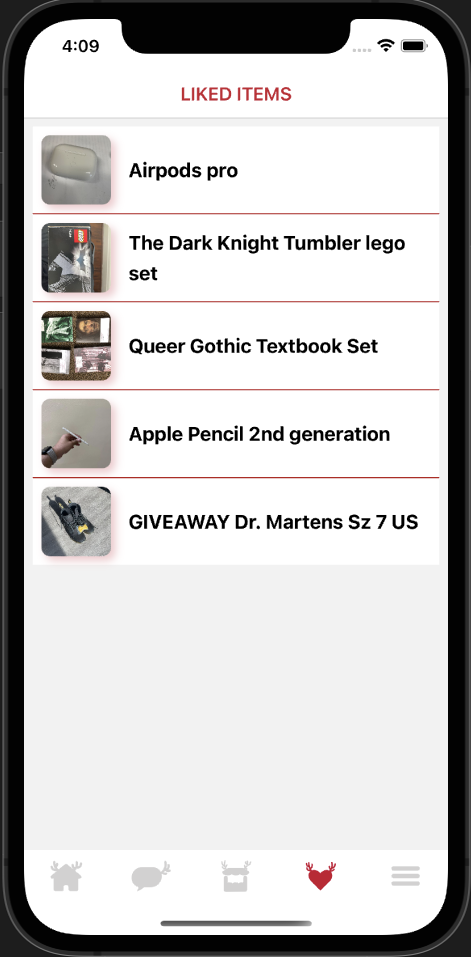
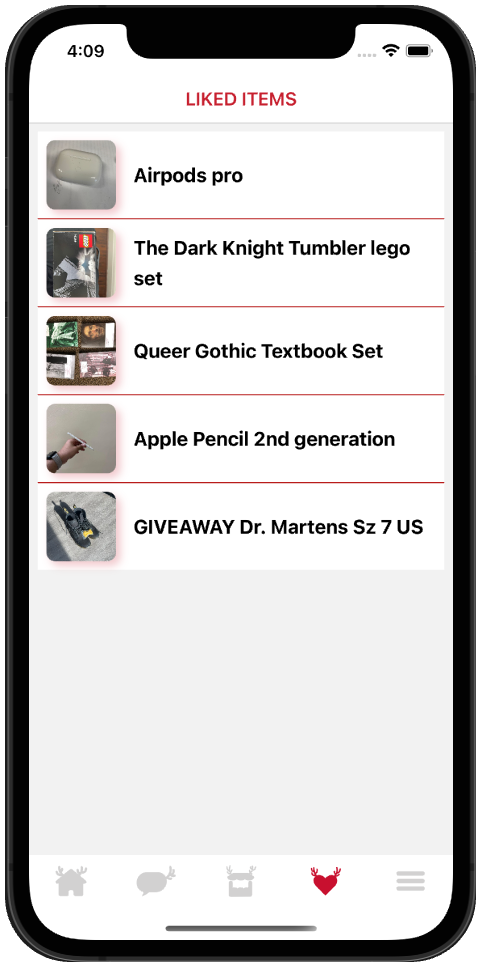
add feature app stack template

diff --git a/pages/feature.tsx b/pages/feature.tsx
@@ -9,15 +9,14 @@ import DeviceLockIcon from '../components/icon/DeviceLockIcon';
 import DeviceChartIcon from '../components/icon/DeviceChartIcon';
 import DeviceUserIcon from '../components/icon/DeviceUserIcon';
 import Header from '../components/Header';
-
+import FeatureContent from '../components/FeatureContent';
+import listing from '../public/image/listing.png';
+import chat from '../public/image/chat.png';
+import createItem from '../public/image/create-item.png';
+import likedItem from '../public/image/liked-item.png';
+import menu from '../public/image/menu.png';
 
 const features = [
-  // {
-  //   name: '',
-  //   description:
-  //     'Whether it’s $1 or $1,000,000, we can put your money to work for you.',
-  //   icon: DeviceArrowIcon,
-  // },
   {
     name: 'List of products',
     description:
@@ -42,16 +41,32 @@ const features = [
       'Cutting-edge security technology that even the NSA doesn’t know about keeps you hidden.',
     icon: DeviceUserIcon,
   },
-  // {
-  //   name: 'Portfolio tracking',
-  //   description:
-  //     'Watch your investments grow exponentially, leaving other investors in the dust.',
-  //   icon: DeviceChartIcon,
-  // },
+];
+
+const stacks = [
+  {
+    position: 1,
+    image: listing,
+  },
+  {
+    position: 2,
+    image: chat,
+  },
+  {
+    position: 3,
+    image: createItem,
+  },
+  {
+    position: 4,
+    image: likedItem,
+  },
+  {
+    position: 5,
+    image: menu,
+  },
 ]
 
 const Feature:NextPage = () => {
-
   return (
     <>
     <header><Header/></header>
@@ -87,6 +102,13 @@ const Feature:NextPage = () => {
             </li>
           ))}
         </ul>
+        <div> 
+          {stacks.map((stack)=>{
+            return (
+              <FeatureContent key={stack.position} position={stack.position} image={stack.image}/>
+            )
+          })}
+        </div>
       </div>
     </section>
     </>

diff --git a/components/FeatureContent.tsx b/components/FeatureContent.tsx
@@ -1,0 +1,36 @@
+import React from 'react';
+import { FC } from 'react';
+import Image, { StaticImageData } from 'next/image';
+import internal from 'stream';
+
+interface Props{
+  position: number,
+  image: StaticImageData,
+}
+
+const FeatureContent:FC<Props> = (props) =>{
+  return (
+    <div className='grid md:grid-cols-2'>
+        {props.position % 2 != 0 ? <div className="feature-img">
+          <Image src={props.image} alt="Listing Feature" />
+        </div>:null}
+        <div className="flex flex-col justify-center">
+          <div className="text-denison-red mb-5">Lorem ipsum dolor sit amet.</div>
+          <h2 className="text-3xl font-bold mb-5">Lorem ipsum dolor sit amet consectetur adipisicing elit.</h2>
+          <div className='mb-7'>Lorem ipsum dolor sit amet consectetur adipisicing elit. 
+          Molestiae quasi, fugit nostrum labore sequi officia ex saepe repudiandae 
+          vitae quas assumenda dignissimos reprehenderit amet eius quisquam voluptas, quod cumque eum.
+          </div>
+          <ul className='list-disc pl-4'>
+            <li>Ability 1</li>
+            <li>Ability 2</li>
+            <li>Ability 3</li>
+          </ul>
+        </div>
+        {props.position % 2 == 0 ? <div className="feature-img">
+          <Image src={props.image} alt="Listing Feature" />
+        </div>:null}
+    </div>
+  )
+}
+export default FeatureContent;

diff --git a/components/Header.tsx b/components/Header.tsx
@@ -65,7 +65,7 @@ const Header: FC = () => {
 													)}
 												>
 													{item.name}
-													<div className="bg-pink w-0 duration-150 ease-in group-hover:w-full" style={{height: "3px"}}></div>
+													<div className="bg-pink w-0 duration-150 ease-in group-hover:w-full" style={{height: "2px", borderRadius: "18%"}}></div>
 												</div>
 												
 											</Link>

diff --git a/styles/style.css b/styles/style.css
@@ -1,0 +1,9 @@
+.feature-img {
+    box-sizing: content-box;
+    text-align: center;
+}
+
+.feature-img>span>img{
+    min-height: 75% !important;
+    min-width: 75% !important;
+}

diff --git a/pages/_app.tsx b/pages/_app.tsx
@@ -1,4 +1,5 @@
 import '../styles/globals.css'
+import '../styles/style.css'
 import type { AppProps } from 'next/app'
 
 function MyApp({ Component, pageProps }: AppProps) {

diff --git a/components/css/style.css b/components/css/style.css
@@ -1,0 +1,8 @@
+.feature-img {
+    box-sizing: content-box;
+}
+
+.feature-img > div{
+    min-height: 75% !important;
+    min-width: 60% !important;
+}
